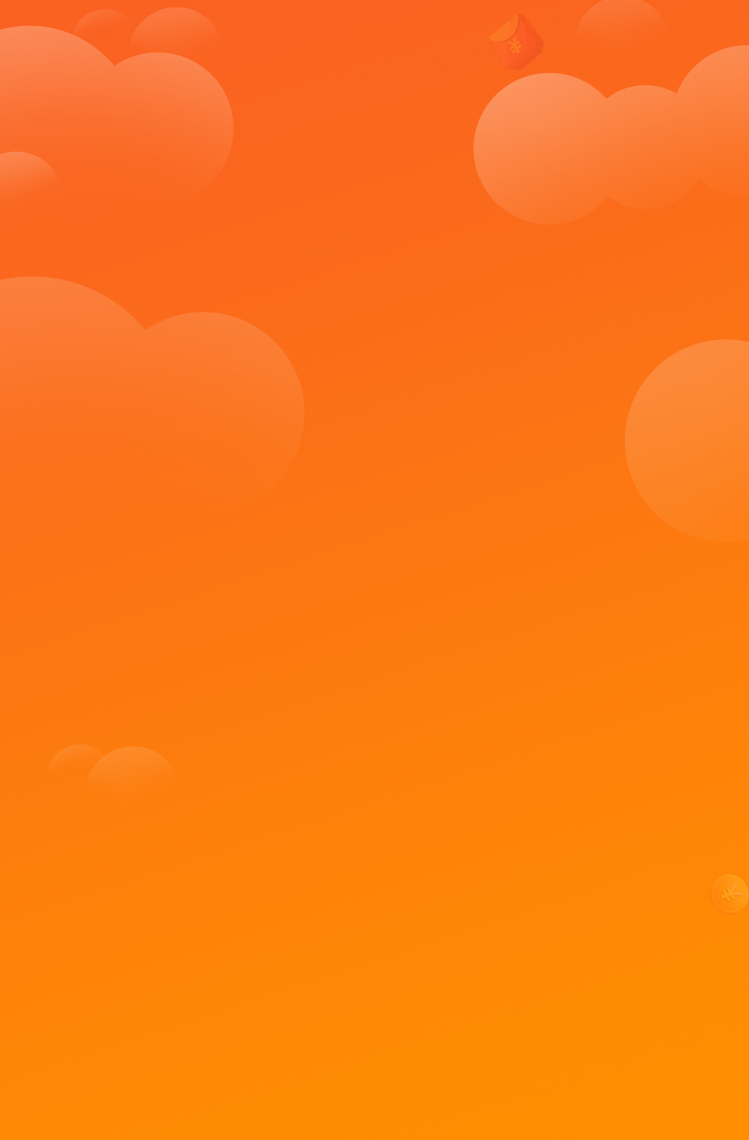
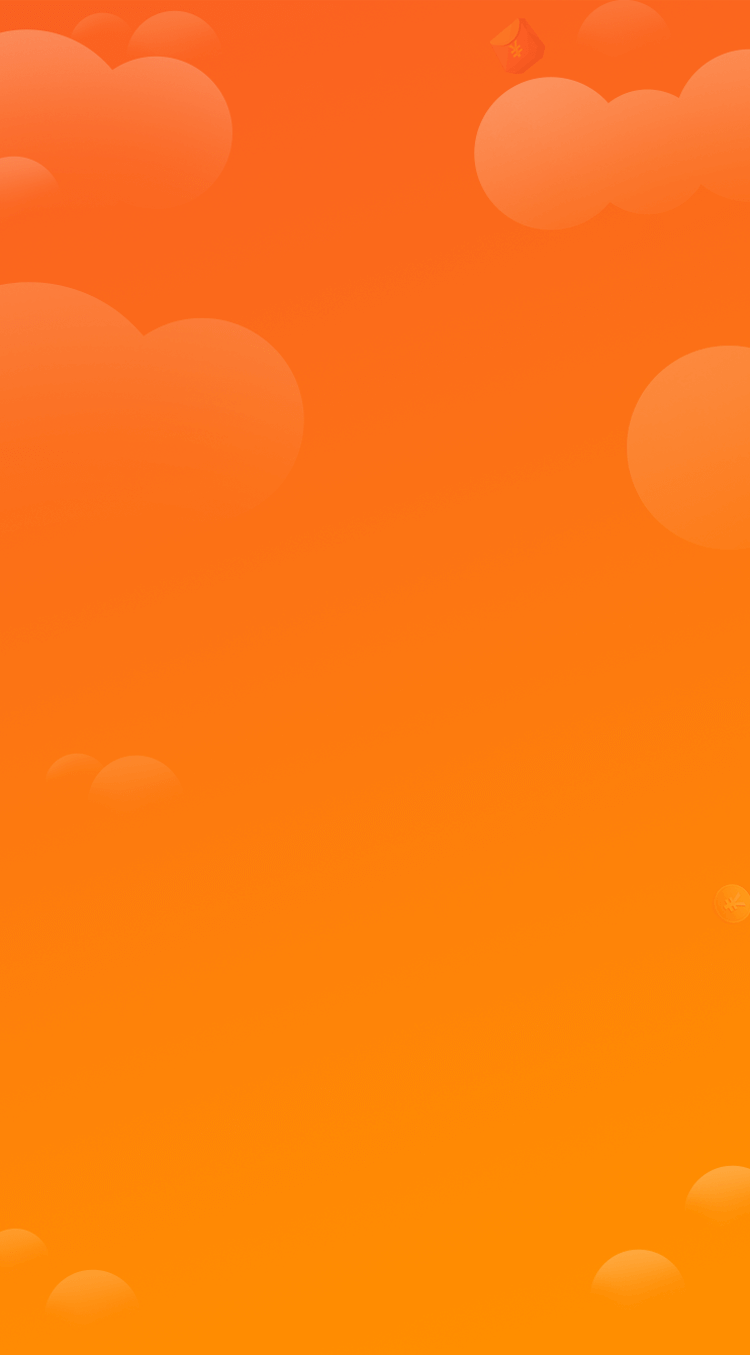
1,修改页面兼容问题 2，增加点击判断无网络情况

diff --git a/js/invited.js b/js/invited.js
@@ -44,12 +44,30 @@ $(function() {
 
   //跳转到我的红包列表
   $(".redPacketBox").click(function() {
-    window.location.href = "myRedEnvelope.html";
+    if (navigator.onLine) {
+      //正常工作
+      window.location.href = "myRedEnvelope.html";
+    } else {
+      //执行离线状态时的任务
+      layer.open({
+        content: "网络异常，请稍后重试",
+        btn: "确定"
+      });
+    }
   });
 
   //跳转到我的邀请列表
   $(".inviteBox").click(function() {
-    window.location.href = "myInvitation.html";
+    if (navigator.onLine) {
+      //正常工作
+      window.location.href = "myInvitation.html";
+    } else {
+      //执行离线状态时的任务
+      layer.open({
+        content: "网络异常，请稍后重试",
+        btn: "确定"
+      });
+    }
   });
   //邀请排行榜
   $.ajax({

diff --git a/js/myRedEnvelope.js b/js/myRedEnvelope.js
@@ -9,11 +9,18 @@ $(function(){
             data: JSON.stringify({
                 inviteCode:inviteCode
             }),
-            success: function (data) {          
+            success: function (data) {  
+                console.log(data)        
                  var jsonData = JSON.parse(data['plaintext']);
                  var result = jsonData.item.result;
                  //返回填充数据
                  var inviteBonusList = jsonData.item.inviteBonusList;
+                 //空数据
+                 var itemCount = jsonData.item.itemCount;
+                 if(itemCount==0){
+                     $('.noData').show();
+                     $('#exampleTable').hide();
+                 }
                  //返回状态信息
                  var resultInfo = jsonData.item.resultInfo;
                 if(result===1001){

diff --git a/css/myRedEnvelope.less b/css/myRedEnvelope.less
@@ -13,13 +13,14 @@ a{
 }
 th{text-align: center}
 .wrap{
-    width: 100vw;
-    height: 100vh;
+    width: 100%;
     background: url("../img/redEnvelope-bg.png")no-repeat;
-    background-size: 100% 100%;
+    background-size: 750/@r 1206/@r;
+    overflow: hidden;
 }
 .content{
-    padding-top: 70/@r;
+    padding-top: 80/@r;
+    padding-bottom: 70/@r;
     text-align: center;
 }
 .content>img{
@@ -27,9 +28,22 @@ th{text-align: center}
 }
 .content .main{
     width: 690/@r;
-    height: 1100/@r;
+    height: 1020/@r;
     background: #fff;
     margin: -20/@r auto 0;
+}
+.content .main img {
+    width: 6.68rem;
+    margin-top: 3rem;
+}
+
+.content .main p{
+    font-size: 0.6rem;
+    color: #666;
+    margin-top: 0.6rem;
+}
+.noData{
+    display: none;
 }
 //分页位置
 .pagination-detail{

diff --git a/css/myRedEnvelope.css b/css/myRedEnvelope.css
@@ -18,13 +18,14 @@ th {
   text-align: center;
 }
 .wrap {
-  width: 100vw;
-  height: 100vh;
+  width: 100%;
   background: url("../img/redEnvelope-bg.png") no-repeat;
-  background-size: 100% 100%;
+  background-size: 15rem 24.12rem;
+  overflow: hidden;
 }
 .content {
-  padding-top: 1.4rem;
+  padding-top: 1.6rem;
+  padding-bottom: 1.4rem;
   text-align: center;
 }
 .content > img {
@@ -32,9 +33,21 @@ th {
 }
 .content .main {
   width: 13.8rem;
-  height: 22rem;
+  height: 20.4rem;
   background: #fff;
   margin: -0.4rem auto 0;
+}
+.content .main img {
+  width: 6.68rem;
+  margin-top: 3rem;
+}
+.content .main p {
+  font-size: 0.6rem;
+  color: #666;
+  margin-top: 0.6rem;
+}
+.noData {
+  display: none;
 }
 .pagination-detail {
   margin-left: 20px;

diff --git a/js/myInvitation.js b/js/myInvitation.js
@@ -13,6 +13,14 @@ $(function(){
                  var result = jsonData.item.result;
                  //返回填充数据
                  var inviteList = jsonData.item.inviteList;
+                 //判断显示几列数据
+                 var inviteBonusType = jsonData.item.inviteBonusType;
+                  //空数据
+                  var itemCount = jsonData.item.itemCount;
+                  if(itemCount==0){
+                      $('.noData').show();
+                      $('#exampleTable').hide()
+                  }
                  //返回状态信息
                  var resultInfo = jsonData.item.resultInfo;
                 if(result===1001){

diff --git a/myRedEnvelope.html b/myRedEnvelope.html
@@ -28,7 +28,11 @@
                 <div class="content">
                     <img src="img/redEnvelope-head.png" alt="">
                     <div class="main">
-                        <table id="exampleTable"> </table>       
+                        <table id="exampleTable"> </table>  
+                        <div class="noData">
+                            <img src="img/nodata.png" alt="">
+                        <p>暂无更多数据</p>
+                        </div>            
                     </div>
                 </div>
             </div>

diff --git a/myInvitation.html b/myInvitation.html
@@ -26,7 +26,11 @@
         <div class="content">
             <img src="img/redEnvelope-head.png" alt="">
             <div class="main">
-                <table id="exampleTable"> </table>       
+                <table id="exampleTable"> </table>
+                <div class="noData">
+                    <img src="img/nodata.png" alt="">
+                <p>暂无更多数据</p>
+                </div>       
             </div>
         </div>
     </div>

diff --git a/css/enroll.css b/css/enroll.css
@@ -16,9 +16,9 @@ a {
   clear: both;
 }
 .wrap {
-  background: url("../img/enroll-bg.jpg") no-repeat;
-  background-size: 100% ;
-  overflow: auto;
+  background: url("../img/enroll-bg.png") no-repeat;
+  background-size: 15rem 70rem;
+  overflow: hidden;
 }
 .header {
   width: 12.64rem;
@@ -202,7 +202,7 @@ a {
   margin-top: 1.28rem;
 }
 .solutions {
-  width: 8.6rem;
+  width: 9rem;
   margin: 2.4rem auto 0;
 }
 .solutions > p:nth-of-type(1) {

diff --git a/css/enroll.less b/css/enroll.less
@@ -13,9 +13,9 @@ a{
   clear: both;
 }
 .wrap{
-  background: url("../img/enroll-bg.jpg")no-repeat;
-  background-size: 100% ;
-  overflow: auto;
+  background: url("../img/enroll-bg.png")no-repeat;
+  background-size: 750/@r 3500/@r;
+  overflow: hidden;
 }
 .header{
   width:632/@r;
@@ -201,7 +201,7 @@ a{
   margin-top: 64/@r;
 }
 .solutions{
-  width:430/@r;
+  width:450/@r;
   margin: 120/@r auto 0;
 }
 .solutions>p:nth-of-type(1){

diff --git a/css/invited.css b/css/invited.css
@@ -16,8 +16,8 @@ a {
 }
 .wrap {
   background: url("../img/invited-bg.jpg") no-repeat;
-  background-size: 100% ;
-  overflow: auto;
+  background-size: 15rem 60rem;
+  overflow: hidden;
 }
 .column {
   margin-top: 15.6rem;

diff --git a/css/invited.less b/css/invited.less
@@ -13,8 +13,8 @@ a{
 }
 .wrap{
   background: url("../img/invited-bg.jpg")no-repeat;
-  background-size: 100% ;
-  overflow: auto;
+  background-size: 750/@r 3000/@r ;
+  overflow: hidden;
 }
 .column{
   margin-top: 780/@r;
